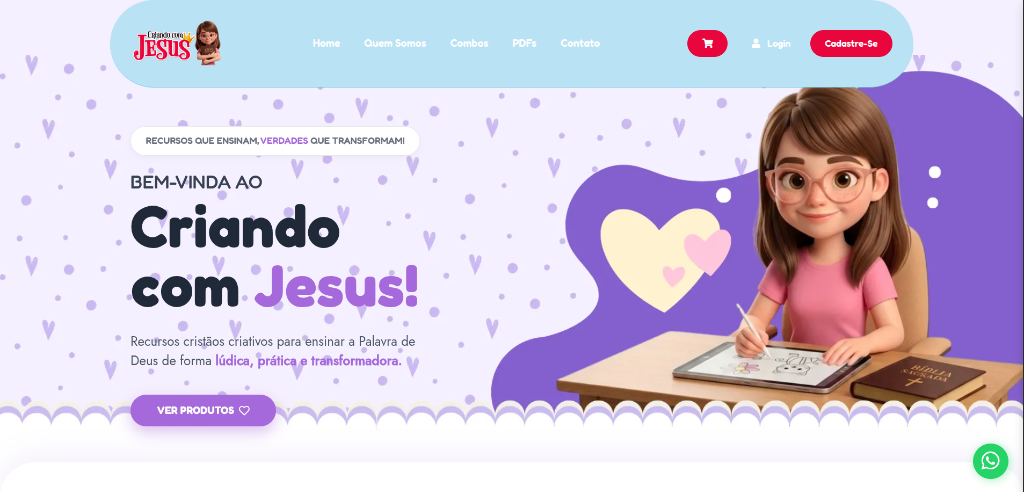
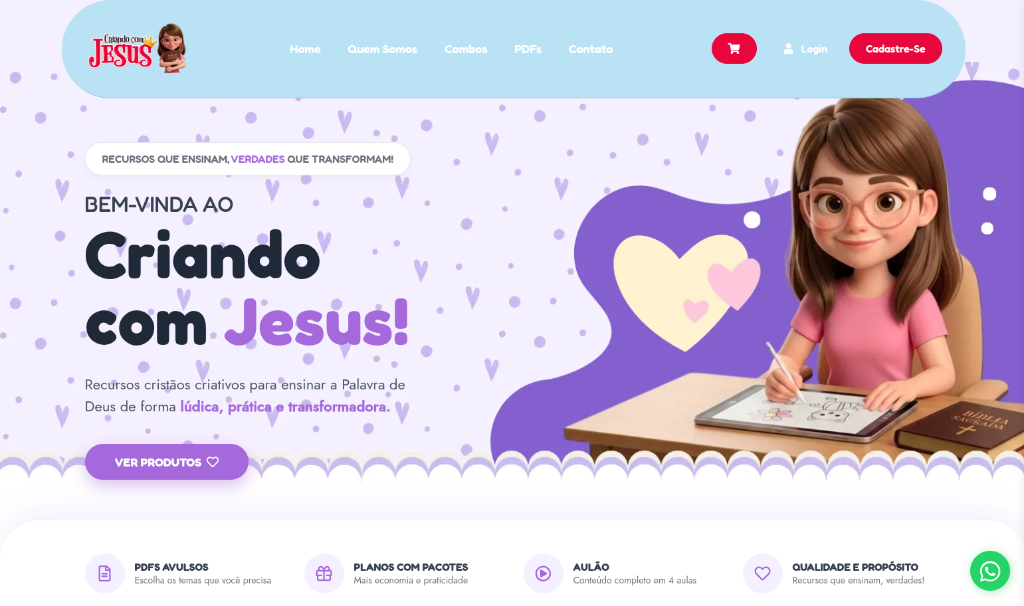
feat: enquadra print em moldura de navegador no card e implementa funcionalidade de lightbox para imagens

diff --git a/index.html b/index.html
@@ -279,15 +279,26 @@
                 <!-- Bento Grid Layout -->
                 <div class="grid grid-cols-1 md:grid-cols-3 gap-6 auto-rows-[320px]">
                     <!-- Bento item 1: Criando com Jesus -->
-                    <a href="portfolio.html" class="md:col-span-2 md:row-span-2 group relative rounded-lg border border-slate-800 overflow-hidden bg-slate-900/50 reveal-on-scroll block">
-                        <img alt="Mockup do portal Criando com Jesus" class="w-full h-full object-cover transition-transform duration-700 group-hover:scale-105 opacity-60 group-hover:opacity-85" src="images/criando-com-jesus.png"/>
-                        <div class="absolute inset-0 bg-gradient-to-t from-slate-950 via-slate-950/20 to-transparent"></div>
-                        <div class="absolute bottom-0 left-0 p-8 w-full">
-                            <span class="text-purple-400 text-xs font-bold uppercase tracking-widest mb-2 block">Plataforma de E-commerce & Ensino</span>
-                            <h3 class="text-2xl md:text-3xl font-bold text-white mb-2">Criando com Jesus</h3>
-                            <p class="text-slate-400 text-sm max-w-md opacity-0 group-hover:opacity-100 transition-opacity duration-300">
-                                Plataforma digital de e-commerce e educação familiar cristã. Desenvolvida sob medida para carregamento ultra rápido, segurança e checkout fluido.
-                            </p>
+                    <a href="portfolio.html" class="md:col-span-2 md:row-span-2 group relative rounded-lg border border-slate-800 overflow-hidden bg-slate-900/50 reveal-on-scroll flex flex-col justify-between p-6 hover:border-purple-500/50 transition-all duration-300">
+                        <div class="rounded-lg border border-slate-800 bg-slate-950/80 overflow-hidden flex-1 flex flex-col min-h-0">
+                            <!-- Browser Header -->
+                            <div class="bg-slate-900/80 px-4 py-2.5 border-b border-slate-800 flex items-center gap-1.5 shrink-0">
+                                <span class="w-2 h-2 rounded-full bg-red-500/80"></span>
+                                <span class="w-2 h-2 rounded-full bg-yellow-500/80"></span>
+                                <span class="w-2 h-2 rounded-full bg-green-500/80"></span>
+                                <div class="bg-slate-950/60 rounded px-3 py-0.5 text-[10px] text-slate-500 font-mono ml-4 w-48 truncate">criandocomjesus.com.br</div>
+                            </div>
+                            <!-- Image container -->
+                            <div class="flex-1 overflow-hidden relative">
+                                <img alt="Portal Criando com Jesus" class="w-full h-full object-cover object-top transition-transform duration-700 group-hover:scale-[1.03] opacity-70 group-hover:opacity-90" src="images/criando-com-jesus.png"/>
+                            </div>
+                        </div>
+                        <div class="mt-4 flex justify-between items-end">
+                            <div>
+                                <span class="text-purple-400 text-xs font-bold uppercase tracking-widest mb-1 block">Plataforma de E-commerce & Ensino</span>
+                                <h3 class="text-2xl font-bold text-white">Criando com Jesus</h3>
+                            </div>
+                            <span class="material-symbols-outlined text-slate-500 group-hover:text-purple-400 transition-colors">arrow_right_alt</span>
                         </div>
                     </a>                    
                     <!-- Bento item 2: Text/Link callout project (Aura Sync) -->

diff --git a/js/lightbox.js b/js/lightbox.js
@@ -1,0 +1,93 @@
+/**
+ * ImageLightbox Class
+ * Creates a dynamic modal overlay (lightbox) to display large versions
+ * of images when clicked.
+ */
+export class ImageLightbox {
+  constructor() {
+    this.triggers = document.querySelectorAll('.lightbox-trigger');
+    this.modal = null;
+    this.modalImg = null;
+    this.closeBtn = null;
+    
+    this.init();
+  }
+
+  init() {
+    if (this.triggers.length === 0) return;
+
+    // Create modal element dynamically so we don't clutter the HTML files
+    this.createModal();
+
+    // Attach click listener to triggers
+    this.triggers.forEach(img => {
+      img.classList.add('cursor-zoom-in');
+      img.addEventListener('click', (e) => this.open(e));
+    });
+  }
+
+  createModal() {
+    // Create overlay container
+    this.modal = document.createElement('div');
+    this.modal.id = 'lightbox-modal';
+    this.modal.className = 'fixed inset-0 bg-slate-950/90 z-50 hidden flex items-center justify-center p-4 backdrop-blur-md opacity-0 transition-opacity duration-300';
+    
+    // Create image container/image
+    this.modalImg = document.createElement('img');
+    this.modalImg.className = 'max-w-full max-h-[90vh] rounded-lg border border-slate-800 shadow-2xl transition-transform duration-300 scale-95';
+    this.modal.appendChild(this.modalImg);
+
+    // Create close button
+    this.closeBtn = document.createElement('button');
+    this.closeBtn.className = 'absolute top-6 right-6 text-white bg-slate-900/50 hover:bg-slate-850 border border-slate-800 p-2 rounded-full flex items-center justify-center active:scale-95 transition-all';
+    this.closeBtn.innerHTML = '<span class="material-symbols-outlined">close</span>';
+    this.modal.appendChild(this.closeBtn);
+
+    // Append to body
+    document.body.appendChild(this.modal);
+
+    // Close events
+    this.closeBtn.addEventListener('click', () => this.close());
+    this.modal.addEventListener('click', (e) => {
+      if (e.target === this.modal) this.close();
+    });
+
+    // ESC key close support
+    document.addEventListener('keydown', (e) => {
+      if (e.key === 'Escape') this.close();
+    });
+  }
+
+  open(e) {
+    const src = e.currentTarget.getAttribute('src');
+    const alt = e.currentTarget.getAttribute('alt');
+
+    if (this.modal && this.modalImg) {
+      this.modalImg.setAttribute('src', src);
+      this.modalImg.setAttribute('alt', alt);
+      
+      this.modal.classList.remove('hidden');
+      // Delay opacity class to trigger css transition
+      setTimeout(() => {
+        this.modal.classList.add('opacity-100');
+        this.modalImg.classList.add('scale-100');
+        this.modalImg.classList.remove('scale-95');
+      }, 10);
+      document.body.classList.add('overflow-hidden');
+    }
+  }
+
+  close() {
+    if (this.modal && this.modalImg) {
+      this.modal.classList.remove('opacity-100');
+      this.modalImg.classList.remove('scale-100');
+      this.modalImg.classList.add('scale-95');
+      
+      // Delay hiding element until transition ends
+      setTimeout(() => {
+        this.modal.classList.add('hidden');
+        document.body.classList.remove('overflow-hidden');
+      }, 300);
+    }
+  }
+}

diff --git a/portfolio.html b/portfolio.html
@@ -94,7 +94,7 @@
             <!-- High Fidelity Screenshot Banner -->
             <div class="relative w-full rounded-2xl border border-slate-800 bg-slate-900/30 overflow-hidden shadow-2xl p-4 md:p-6 reveal-on-scroll">
                 <div class="absolute inset-0 bg-gradient-to-tr from-purple-500/5 to-transparent pointer-events-none"></div>
-                <img alt="Screenshot do site Criando com Jesus" class="w-full h-auto rounded-lg border border-slate-800 shadow-xl" src="images/criando-com-jesus.png"/>
+                <img alt="Screenshot do site Criando com Jesus" class="w-full h-auto rounded-lg border border-slate-800 shadow-xl lightbox-trigger" src="images/criando-com-jesus.png"/>
             </div>
         </section>
 

diff --git a/js/main.js b/js/main.js
@@ -1,12 +1,14 @@
 import { NavigationManager } from './navigation.js';
 import { ScrollAnimationTrigger } from './scroll-animation.js';
 import { ContactFormHandler } from './contact-form.js';
+import { ImageLightbox } from './lightbox.js';
 
 document.addEventListener('DOMContentLoaded', () => {
   // Initialize OOP-structured components
   const navigation = new NavigationManager();
   const scrollAnimations = new ScrollAnimationTrigger();
   const contactForm = new ContactFormHandler();
+  const lightbox = new ImageLightbox();
 
   console.log('Obsidian Tech SPA initialized successfully.');
 });
